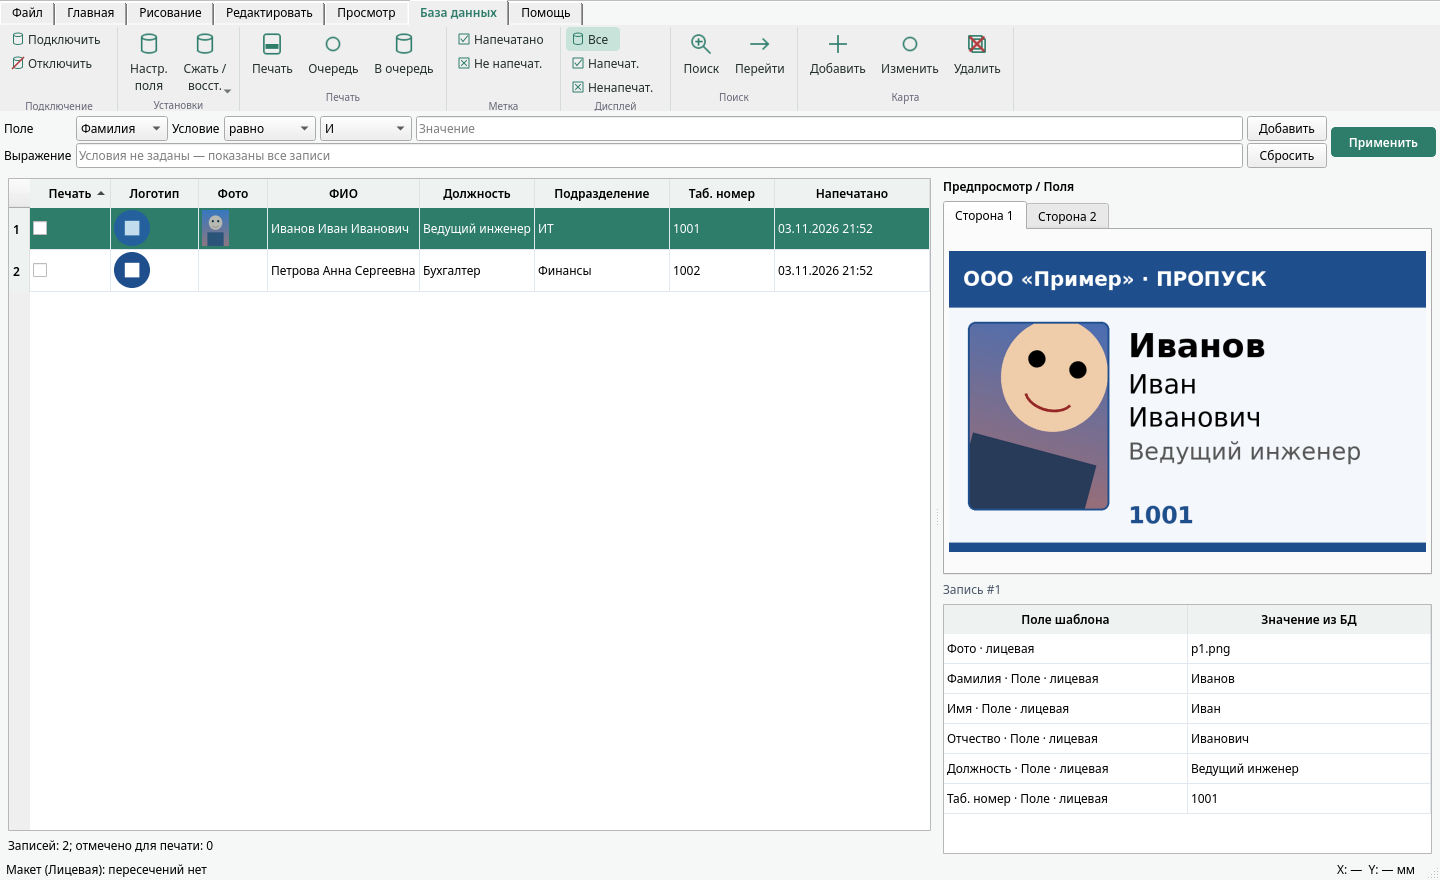
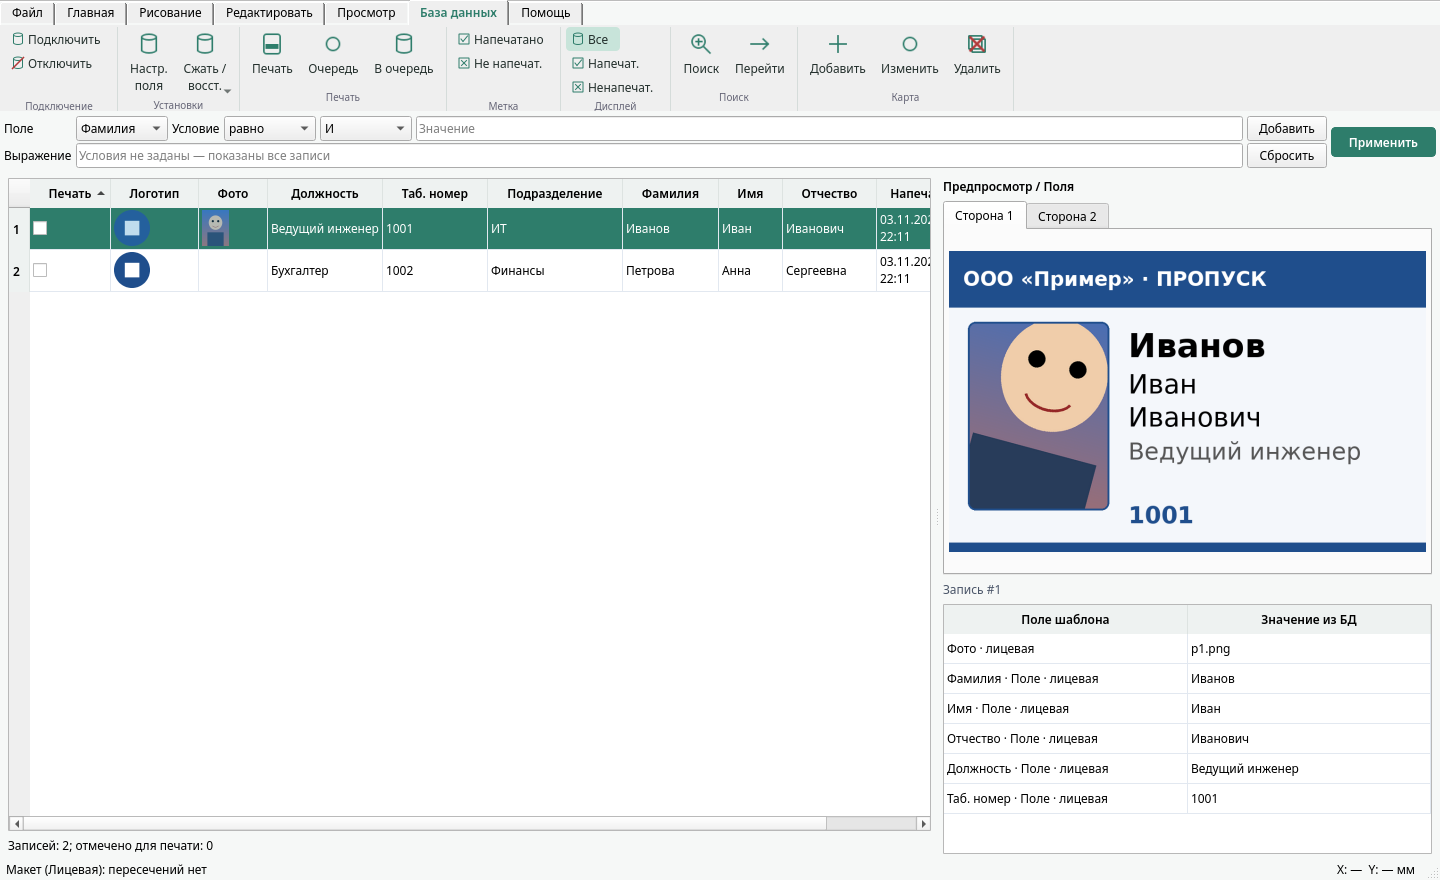
D19: набор полей только из list_fields(); выделение новой записи, «(пусто)», предупреждение о рассинхроне полей

diff --git a/ui/main_view.py b/ui/main_view.py
@@ -12,7 +12,8 @@ from .backend_api import BackendAPI, CARD_W_PX, CARD_H_PX
 from .layout_editor import element_caption
 from .records_table import format_printed_at
 
-from .backend_api import TYPE_NAMES, SIDE_NAMES
+from .backend_api import TYPE_NAMES, SIDE_NAMES, field_desync, desync_text
+EMPTY_VALUE = "(пусто)"
 from .ribbon import glyph
 
 
@@ -31,13 +32,15 @@ class PreviewPanel(QWidget):
             self.images[side] = lab; self.sides.addTab(lab, name)
         self.sides.currentChanged.connect(lambda i: self._fit())
         self.caption = QLabel(); self.caption.setStyleSheet("color:#4A5568;")
+        self.warning = QLabel(); self.warning.setWordWrap(True); self.warning.setStyleSheet("color:#9A3412; background:#FFF4E5; padding:3px;")
+        self.warning.hide()
         self.fields = QTableWidget(0, 2); self.fields.setHorizontalHeaderLabels(["Поле шаблона", "Значение из БД"])
         self.fields.horizontalHeader().setSectionResizeMode(QHeaderView.ResizeMode.Stretch)
         self.fields.verticalHeader().setVisible(False)
         self.fields.setEditTriggers(QAbstractItemView.EditTrigger.NoEditTriggers)
         self.fields.setSelectionBehavior(QAbstractItemView.SelectionBehavior.SelectRows)
         lay = QVBoxLayout(self); lay.setContentsMargins(4, 4, 4, 4)
-        lay.addWidget(self.title); lay.addWidget(self.sides, 3); lay.addWidget(self.caption); lay.addWidget(self.fields, 2)
+        lay.addWidget(self.title); lay.addWidget(self.sides, 3); lay.addWidget(self.caption); lay.addWidget(self.warning); lay.addWidget(self.fields, 2)
 
     @property
     def pixmap(self):
@@ -67,10 +70,17 @@ class PreviewPanel(QWidget):
                              f"{SIDE_NAMES[e['side']].lower()}", str(vals.get(e["field_name"], "") or "")))
         self.fields.setRowCount(len(rows))
         for r, (k, v) in enumerate(rows):
-            self.fields.setItem(r, 0, QTableWidgetItem(k)); self.fields.setItem(r, 1, QTableWidgetItem(v))
+            self.fields.setItem(r, 0, QTableWidgetItem(k))
+            it = QTableWidgetItem(v if v not in ("", "—") else EMPTY_VALUE)
+            if v in ("", "—") and p: it.setForeground(QColor("#9AA3AE")); it.setToolTip("В записи нет значения этого поля")
+            self.fields.setItem(r, 1, it)
+        self.desync = field_desync(self.api); t = desync_text(self.desync)
+        self.warning.setText(t); self.warning.setVisible(bool(t))
 
     def db_rows(self):
-        return [(self.fields.item(r, 0).text(), self.fields.item(r, 1).text()) for r in range(self.fields.rowCount())]
+        """[(поле, значение)]; пустое значение — "" (на экране — серым «(пусто)»)."""
+        return [(self.fields.item(r, 0).text(), "" if self.fields.item(r, 1).text() == EMPTY_VALUE else self.fields.item(r, 1).text())
+                for r in range(self.fields.rowCount())]
 
     def _fit(self):
         for side, lab in self.images.items():
@@ -207,7 +217,9 @@ class PrintQueueDialog(QDialog):
     def __init__(self, api: BackendAPI, parent=None):
         super().__init__(parent); self.setWindowTitle("Очередь печати"); self.resize(560, 380)
         self.api = api
-        self.table = QTableWidget(0, 4); self.table.setHorizontalHeaderLabels(["#", "ФИО", "Должность", "Напечатано"])
+        self.flds = [f for f in api.list_fields() if f["name"] != "logo"][:3]          # D19: из list_fields(), не хардкод
+        self.table = QTableWidget(0, 2 + len(self.flds))
+        self.table.setHorizontalHeaderLabels(["#", *[f["label"] or f["name"] for f in self.flds], "Напечатано"])
         self.table.horizontalHeader().setSectionResizeMode(1, QHeaderView.ResizeMode.Stretch)
         self.table.setEditTriggers(QAbstractItemView.EditTrigger.NoEditTriggers); self.table.verticalHeader().setVisible(False)
         self.info = QLabel()
@@ -220,8 +232,7 @@ class PrintQueueDialog(QDialog):
         self.table.setRowCount(len(self.persons))
         for r, p in enumerate(self.persons):
             f = p["fields"]
-            vals = [str(p["id"]), " ".join(str(f.get(k) or "") for k in ("last_name", "first_name", "middle_name")).strip(),
-                    str(f.get("position") or ""), format_printed_at(p.get("printed_at"))]
+            vals = [str(p["id"]), *[str(f.get(x["name"]) or "") for x in self.flds], format_printed_at(p.get("printed_at"))]
             for c, v in enumerate(vals): self.table.setItem(r, c, QTableWidgetItem(v))
         self.info.setText(f"В очереди: {len(self.persons)}. Печать и снятие отметок — лента «База данных → Печать»."
                           if self.persons else "Очередь пуста — отметьте записи в колонке «Печать».")

diff --git a/ui/smoke_test.py b/ui/smoke_test.py
@@ -514,7 +514,7 @@ w.show_main(); app.processEvents()
 assert w.stack.currentWidget() is w.db_page and w.splitter.widget(0) is w.records and w.splitter.widget(1) is w.preview_panel
 m = w.records.model; hdr = [m.headerData(c, Qt.Orientation.Horizontal) for c in range(m.columnCount())]
 lab = {f["name"]: f["label"] for f in api.list_fields()}
-assert hdr[:7] == ["Печать", "Логотип", "Фото", "ФИО", lab["position"], lab["department"], lab["employee_id"]] and hdr[-1] == "Напечатано", hdr
+assert hdr[:3] == ["Печать", "Логотип", "Фото"] and hdr[3:-1] == [f["label"] or f["name"] for f in api.list_fields() if f["name"] != "logo"] and hdr[-1] == "Напечатано", hdr
 ok(f"таблица: колонки {hdr}")
 pp = w.preview_panel
 people = api.list_persons(); a_id, b_id = people[0]["id"], people[1]["id"]
@@ -675,6 +675,42 @@ for i, t in enumerate(TABS):
     w.grab().save(str(shots / f"stage12_tab_{i + 1}.png"))
 w.resize(1024, 720); w.ribbon.select("Рисование"); spin(120); w.grab().save(str(shots / "stage12_1024.png"))
 ok("скриншоты: reports/stage12_tab_1..7.png, stage12_1024.png, stage12_field_manager.png")
+# --- D19: набор полей только из list_fields(); добавление → выделение, превью и значения ---
+from ui import records_table as rtm
+from ui.backend_api import field_desync
+ivan_db = tmp / "ivan.db"
+api.open_db(ivan_db)
+for i, (n, l) in enumerate([("familiya", "Фамилия"), ("imya", "Имя"), ("otchestvo", "Отчество"), ("fakultet", "Факультет")]):
+    api.upsert_field(n, l, i)
+    api.create_element(type="field", side="front", x=40, y=40 + 70 * i, w=600, h=60, field_name=n)
+w.refresh_all(); app.processEvents()
+empty = w.preview_panel.pixmaps["front"].toImage()
+assert [m.headerData(c, Qt.Orientation.Horizontal) for c in range(m.columnCount())] == ["Печать", "Фамилия", "Имя", "Отчество", "Факультет", "Напечатано"]
+vals = {"familiya": "Иванова", "imya": "Мария", "otchestvo": "Петровна", "fakultet": "Физмат"}
+def fill(f):
+    assert list(f.edits) == list(vals), list(f.edits)
+    for k, v in vals.items(): f.edits[k].setText(v)
+    f.save(); return f.result() == 1
+rtm.form_hook = fill; new_id = w.records._open_form(None); rtm.form_hook = None; spin(50)
+assert w.records.selected_ids() == [new_id] and w.preview_panel.person_id == new_id
+img = w.preview_panel.pixmaps["front"].toImage(); assert img != empty                       # текст отрисован
+diff = sum(1 for x in range(0, img.width(), 4) for y in range(0, img.height(), 4) if img.pixel(x, y) != empty.pixel(x, y))
+assert diff > 50, diff
+rows = dict(w.preview_panel.db_rows())
+assert [v for k, v in rows.items() if "Поле" in k] == list(vals.values()), rows
+api.update_person(new_id, fields={"familiya": "Иванова", "imya": "", "otchestvo": "Петровна", "fakultet": "Физмат"}); w.preview_panel.refresh()
+it = next(w.preview_panel.fields.item(r, 1) for r in range(w.preview_panel.fields.rowCount()) if w.preview_panel.fields.item(r, 0).text().startswith("Имя"))
+assert it.text() == "(пусто)" and it.foreground().color().name() == "#9aa3ae"
+assert w.preview_panel.warning.isHidden() and field_desync(api) == {"person_keys": [], "template_fields": []}
+# старая БД: ключ записи без person_fields и field_name шаблона без поля → предупреждение
+api.create_person({"familiya": "Старая", "fio": "Старая Запись"}); api.create_element(type="field", side="back", x=10, y=10, w=300, h=50, field_name="kafedra")
+w.refresh_all(); app.processEvents()
+assert field_desync(api) == {"person_keys": ["fio"], "template_fields": ["kafedra"]}
+assert not w.preview_panel.warning.isHidden() and "kafedra" in w.preview_panel.warning.text() and "fio" in w.preview_panel.warning.text()
+f3 = rtm.RecordForm(api, None, w); assert "kafedra" in f3.edits and list(f3.edits)[:4] == list(vals); f3.close()
+w.records.select_id(new_id); spin(80); assert w.preview_panel.person_id == new_id
+w.preview_panel.grab().save(str(shots / "d19_preview.png"))
+ok(f"D19: колонки/форма = list_fields(); новая запись выделена, превью с текстом (Δ={diff} px), значения заполнены, «(пусто)» серым; рассинхрон {field_desync(api)} → предупреждение")
 # расположение окна сохраняется автоматически в closeEvent
 _cfg2 = tempfile.mkdtemp(prefix="bg_ui_cfg2_")
 QSettings.setPath(QSettings.Format.NativeFormat, QSettings.Scope.UserScope, _cfg2)

diff --git a/ui/records_table.py b/ui/records_table.py
@@ -32,15 +32,13 @@ def format_printed_at(value) -> str:
     return dt.strftime("%d.%m.%Y %H:%M")
 
 
-FIO_PARTS = ("last_name", "first_name", "middle_name")
-# Предпочтительный порядок колонок (только порядок; колонки появляются, лишь если такие поля есть в list_fields)
-PREFERRED = ("position", "department", "employee_id", "barcode")
+form_hook = None   # тесты: form_hook(RecordForm) -> bool вместо exec()
 THUMB = 36
 
 
 class PersonsModel(QAbstractTableModel):
     queue_toggle_requested = pyqtSignal(int)
-    """Колонки: Печать | [Логотип] | [Фото] | [ФИО] | поля в предпочтительном порядке, затем прочие | Напечатано."""
+    """Колонки: Печать | [Логотип] | [Фото] | поля list_fields() в его порядке | Напечатано."""
 
     def __init__(self, api: BackendAPI, parent=None):
         super().__init__(parent)
@@ -65,14 +63,8 @@ class PersonsModel(QAbstractTableModel):
             cols.append(("logo", "Логотип", None))
         if any(p.get("photo_path") for p in self.rows):
             cols.append(("photo", "Фото", None))
-        used = set()
-        fio = [n for n in FIO_PARTS if n in names]
-        if fio:
-            cols.append(("fio", "ФИО", fio)); used.update(fio)
-        for n in PREFERRED:
-            if n in names: cols.append(("field", label[n], n)); used.add(n)
-        for n in names:
-            if n not in used and n != "logo": cols.append(("field", label[n], n))
+        for n in names:                                   # D19: ровно list_fields(), в его порядке
+            if n != "logo": cols.append(("field", label[n] or n, n))
         cols.append(("printed", PRINTED_LABEL, None))
         return cols
 
@@ -107,7 +99,6 @@ class PersonsModel(QAbstractTableModel):
 
     def text(self, row, c):
         p = self.rows[row]; kind, _l, n = self.cols[c]
-        if kind == "fio": return " ".join(str(p["fields"].get(x, "") or "") for x in n).strip()
         if kind == "field": return str(p["fields"].get(n, "") or "")
         if kind == "printed": return format_printed_at(p.get("printed_at"))
         if kind == "photo": return os.path.basename(p.get("photo_path") or "")
@@ -317,8 +308,22 @@ class RecordsWidget(QWidget):
             self._open_form(ids[0])
 
     def _open_form(self, pid):
-        if RecordForm(self.api, pid, self).exec():
-            self.model.reload()
+        """После сохранения: перечитать модель, выделить новую/изменённую строку (→ превью и таблица значений)."""
+        f = RecordForm(self.api, pid, self)
+        ok = form_hook(f) if form_hook is not None else f.exec()
+        if ok:
+            self.model.reload(); self.select_id(f.person_id)
+            return f.person_id
+        return None
+
+    def select_id(self, pid):
+        r = self.model.row_of(pid)
+        if r < 0: return False
+        pr = self.proxy.mapFromSource(self.model.index(r, 0)).row()
+        if pr < 0:                                         # скрыта фильтром — показать все
+            self.proxy.set_ids(None); pr = self.proxy.mapFromSource(self.model.index(r, 0)).row()
+        self.view.clearSelection(); self.view.selectRow(pr); self.view.scrollTo(self.proxy.index(pr, 0))
+        return True
 
     def delete(self):
         """Удаление карт — только после подтверждения. Возвращает число удалённых."""

diff --git a/ui/record_form.py b/ui/record_form.py
@@ -16,17 +16,21 @@ class RecordForm(QDialog):
         self.person = p or {"id": None, "fields": {}, "photo_path": None,
                             "photo_config": DEFAULT_PHOTO_CONFIG, "print_mark": 0}
         self.setWindowTitle(f"Запись #{person_id}" if p else "Новая запись")
-        fields = api.list_fields()
-        self._new_fields = []
-        if not fields:  # пустая БД: стандартные поля, создаются через upsert_field при сохранении
-            from .backend_api import LABELS
-            fields = [{"name": k, "label": v, "sort_order": i} for i, (k, v) in
-                      enumerate(list(LABELS.items())[:5])]
-            self._new_fields = fields
+        # Единственный источник набора полей — list_fields() (person_fields). Поля шаблона (field_name), которых нет
+        # в person_fields, показываются отдельно и регистрируются upsert_field при сохранении (D19: рассинхрон).
+        fields = list(api.list_fields())
+        known = {f["name"] for f in fields}
+        tmpl = list(dict.fromkeys(e["field_name"] for e in api.list_elements() if e.get("field_name") and e["field_name"] not in known))
+        base = max([f.get("sort_order") or 0 for f in fields] or [0]) + 1
+        self._new_fields = [{"name": n, "label": n, "sort_order": base + i} for i, n in enumerate(tmpl)]
         form = QFormLayout(); self.edits = {}
-        for f in fields:
-            e = QLineEdit(str(self.person["fields"].get(f["name"], "")))
-            self.edits[f["name"]] = e; form.addRow(f["label"] + ":", e)
+        for f in fields + self._new_fields:
+            e = QLineEdit(str(self.person["fields"].get(f["name"], "") or ""))
+            new = f in self._new_fields
+            if new: e.setToolTip("Поле есть в шаблоне, но нет в person_fields — будет создано при сохранении")
+            self.edits[f["name"]] = e; form.addRow((f["label"] or f["name"]) + (" (новое)" if new else "") + ":", e)
+        if not self.edits:
+            form.addRow(QLabel("Нет полей: создайте их в «Настр. поля» или импортируйте данные."))
 
         cfg = PhotoConfig.parse(self.person["photo_config"])
         box = QGroupBox("Фото"); pf = QFormLayout(box)
@@ -105,7 +109,7 @@ class RecordForm(QDialog):
         photo = self.photo_path.text() or None
         try:
             for f in self._new_fields:
-                self.api.upsert_field(f["name"], f["label"], f["sort_order"])
+                self.api.upsert_field(f["name"], f["label"], f["sort_order"])   # D19: поле шаблона → person_fields
             if self.person_id:
                 self.api.update_person(self.person_id, fields=fields, photo_path=photo)
             else:

diff --git a/ui/backend_api.py b/ui/backend_api.py
@@ -187,3 +187,20 @@ def export_pdf_from_snapshot(snap, out_path, base_dir, progress=None, allow_miss
 
 def print_snapshot(snap, printer, base_dir, progress=None, allow_missing_photo=False):
     return _api.print_snapshot(snap, printer, base_dir, progress=progress, allow_missing_photo=allow_missing_photo)
+
+
+# ---------------- D19: согласованность полей (адаптер; в Backend нужна check_field_consistency) ----------------
+def field_desync(api):
+    """{"person_keys": [...], "template_fields": [...]} — ключи записей без person_fields и field_name шаблона без поля.
+    Считается по публичным list_fields/list_persons/list_elements (без SQL)."""
+    names = {f["name"] for f in api.list_fields()}
+    keys = sorted({k for p in api.list_persons() for k in (p.get("fields") or {}) if k not in names})
+    tmpl = sorted({e["field_name"] for e in api.list_elements() if e.get("field_name") and e["field_name"] not in names})
+    return {"person_keys": keys, "template_fields": tmpl}
+
+
+def desync_text(d):
+    parts = []
+    if d["template_fields"]: parts.append("в шаблоне есть поля без person_fields: " + ", ".join(d["template_fields"]))
+    if d["person_keys"]: parts.append("в записях есть ключи без person_fields: " + ", ".join(d["person_keys"]))
+    return ("⚠ Рассинхрон полей: " + "; ".join(parts)) if parts else ""

diff --git a/reports/d19-frontend.md b/reports/d19-frontend.md
@@ -1,0 +1,22 @@
+# D19 — пустые значения после «Добавить» (Frontend)
+
+**Причина.** Если `person_fields` пуст (старая БД Ивана: шаблон со своими `field_name`, а полей нет), `RecordForm` подставлял
+захардкоженный набор `LABELS[:5]` (last_name/first_name/middle_name/position/department) и создавал эти поля.
+Таблица склеивала их в колонку «ФИО» (тоже хардкод `FIO_PARTS`/`PREFERRED`). Значения записывались в ключи, которых нет в шаблоне,
+поэтому превью было без текста, а «Поле шаблона | Значение из БД» — пустой. После сохранения модель перечитывалась со сбросом
+выделения, и превью не обновлялось.
+
+**Фикс (только `ui/`).**
+- Форма записи, колонки таблицы, фильтр и очередь печати строятся только по `list_fields()`. `LABELS`-фолбэк, `FIO_PARTS`/`PREFERRED`
+  и «ФИО/Должность» в очереди удалены. Поля шаблона без `person_fields` форма показывает как «(новое)» и при сохранении
+  регистрирует через `upsert_field`.
+- После «Добавить» или «Изменить» новая или изменённая строка выделяется (`RecordsTable.select_id`). Превью и таблица значений обновляются.
+- Пустое значение показывается серым «(пусто)».
+- Рассинхрон показывается предупреждением в панели «Предпросмотр / Поля». Это ключи записей без `person_fields` и `field_name` шаблона
+  без поля. Адаптер `field_desync()` использует только публичные list_*.
+- Нужно в Backend (не писал): `check_field_consistency(con) -> {"person_keys": [...], "template_fields": [...]}` — то же одним
+  запросом, без чтения всех записей.
+
+**Тест (smoke).** Берётся БД с полями Фамилия/Имя/Отчество/Факультет и шаблоном из них. Запись добавляется через форму. Проверяется, что новая
+строка выделена, превью отличается от пустого шаблона (Δ пикселей > 50) и значения заполнены. «(пусто)» показан серым. Рассинхрон
+(`fio`, `kafedra`) вызывает предупреждение. Скриншот: `reports/d19_preview.png`.
